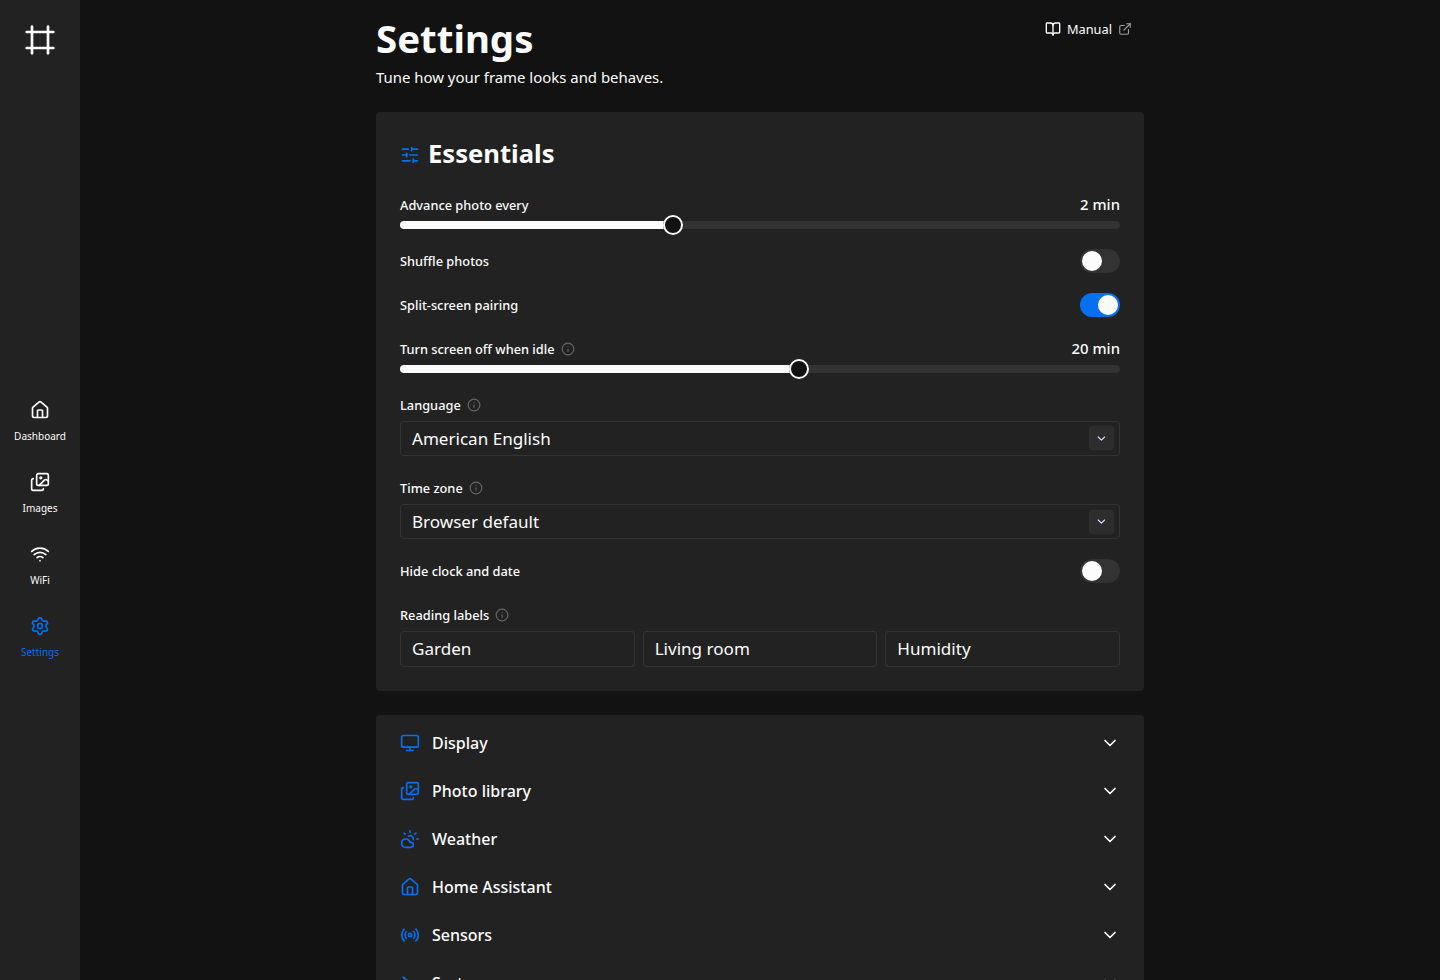
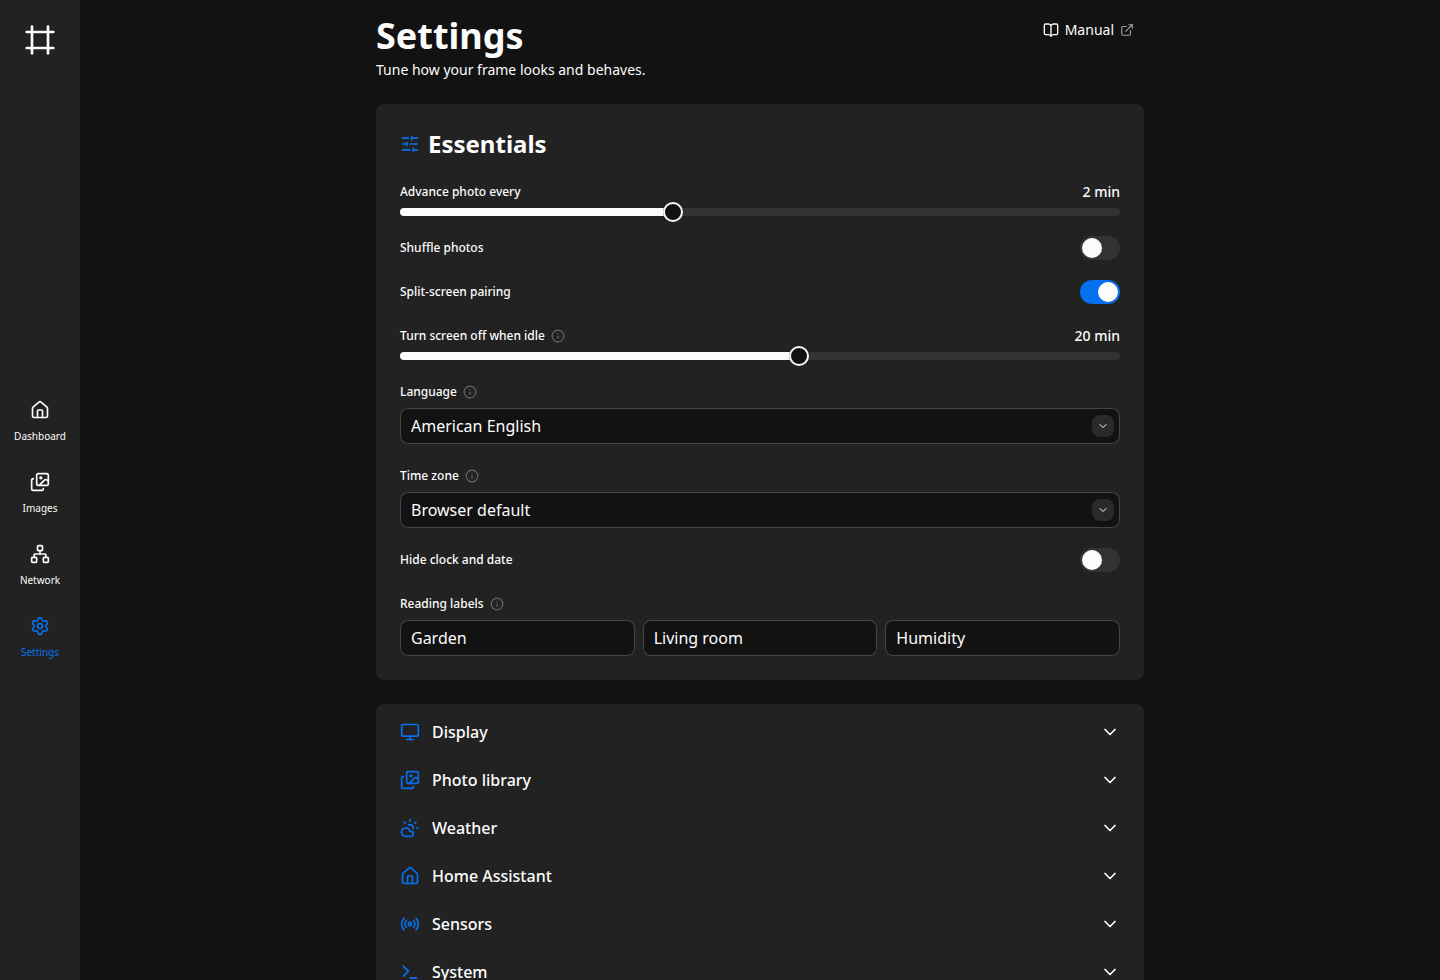
fix(network): rename wifi to network

diff --git a/web/e2e/dashboard.spec.ts b/web/e2e/dashboard.spec.ts
@@ -12,7 +12,7 @@ test.describe('dashboard', () => {
 	});
 
 	test('wifi tile shows the mock connection', async ({ dashboard }) => {
-		await expect(dashboard.tileWifi).toContainText('Home-WiFi');
+		await expect(dashboard.tileNetwork).toContainText('Home-WiFi');
 	});
 
 	test('sensor readings render from SSE', async ({ dashboard }) => {
@@ -45,8 +45,8 @@ test.describe('dashboard', () => {
 		await dashboard.tileLibrary.click();
 		await expect(page).toHaveURL(/\/admin\/images$/);
 		await dashboard.goto();
-		await dashboard.tileWifi.click();
-		await expect(page).toHaveURL(/\/admin\/wifi$/);
+		await dashboard.tileNetwork.click();
+		await expect(page).toHaveURL(/\/admin\/network$/);
 	});
 
 	test('now playing card shows the current image', async ({ dashboard }) => {

diff --git a/web/e2e/pages/dashboard.page.ts b/web/e2e/pages/dashboard.page.ts
@@ -2,7 +2,7 @@ import type { Locator, Page } from '@playwright/test';
 
 export class DashboardPage {
 	readonly heading: Locator;
-	readonly tileWifi: Locator;
+	readonly tileNetwork: Locator;
 	readonly tileWeather: Locator;
 	readonly tileLibrary: Locator;
 	readonly sensorReadings: Locator;
@@ -39,7 +39,7 @@ export class DashboardPage {
 
 	constructor(private readonly page: Page) {
 		this.heading = page.getByTestId('dashboard-heading');
-		this.tileWifi = page.getByTestId('tile-wifi');
+		this.tileNetwork = page.getByTestId('tile-network');
 		this.tileWeather = page.getByTestId('tile-weather');
 		this.tileLibrary = page.getByTestId('tile-library');
 		this.sensorReadings = page.getByTestId('sensor-reading');

diff --git a/web/src/routes/admin/layout.test.ts b/web/src/routes/admin/layout.test.ts
@@ -43,9 +43,9 @@ describe('admin layout load', () => {
 	it('redirects to login with an encoded next when required but unauthenticated', async () => {
 		mockLoadAuthStatus.mockResolvedValue({ required: true, authenticated: false });
 
-		await expect(load(event('/admin/wifi', '?tab=ap'))).rejects.toMatchObject({
+		await expect(load(event('/admin/network', '?tab=ap'))).rejects.toMatchObject({
 			status: 307,
-			location: `/login?next=${encodeURIComponent('/admin/wifi?tab=ap')}`
+			location: `/login?next=${encodeURIComponent('/admin/network?tab=ap')}`
 		});
 	});
 });

diff --git a/web/src/routes/admin/+layout.svelte b/web/src/routes/admin/+layout.svelte
@@ -6,7 +6,7 @@
 		ImagesIcon,
 		SettingsIcon,
 		FrameIcon,
-		WifiIcon,
+		NetworkIcon,
 		LogOutIcon
 	} from '@lucide/svelte';
 	import { Navigation, Toast } from '@skeletonlabs/skeleton-svelte';
@@ -41,7 +41,7 @@
 	const links = [
 		{ label: 'Dashboard', href: '/admin', icon: HouseIcon },
 		{ label: 'Images', href: '/admin/images', icon: ImagesIcon },
-		{ label: 'WiFi', href: '/admin/wifi', icon: WifiIcon },
+		{ label: 'Network', href: '/admin/network', icon: NetworkIcon },
 		{ label: 'Settings', href: '/admin/settings', icon: SettingsIcon }
 	];
 </script>

diff --git a/web/src/lib/auth.test.ts b/web/src/lib/auth.test.ts
@@ -136,8 +136,12 @@ describe('auth', () => {
 
 		it('redirects a gated 401 to /login with the encoded current path and query', () => {
 			expect(
-				loginRedirectTarget({ status: 401, url: 'http://f/api/config' }, '/admin/wifi', '?tab=ap')
-			).toBe(`/login?next=${encodeURIComponent('/admin/wifi?tab=ap')}`);
+				loginRedirectTarget(
+					{ status: 401, url: 'http://f/api/config' },
+					'/admin/network',
+					'?tab=ap'
+				)
+			).toBe(`/login?next=${encodeURIComponent('/admin/network?tab=ap')}`);
 		});
 	});
 });

diff --git a/web/e2e/mobile-nav.spec.ts b/web/e2e/mobile-nav.spec.ts
@@ -9,8 +9,8 @@ test('mobile shows the bottom nav and hides the rail', async ({ page, nav }) => 
 
 test('the bottom nav navigates between pages', async ({ page, nav }) => {
 	await page.goto('/admin');
-	await nav.link('WiFi').click();
-	await expect(page).toHaveURL(/\/admin\/wifi$/);
+	await nav.link('Network').click();
+	await expect(page).toHaveURL(/\/admin\/network$/);
 	await nav.link('Settings').click();
 	await expect(page).toHaveURL(/\/admin\/settings$/);
 });

diff --git a/web/src/routes/admin/+layout.ts b/web/src/routes/admin/+layout.ts
@@ -2,7 +2,7 @@ import { redirect } from '@sveltejs/kit';
 import { loadAuthStatus } from '$lib/auth';
 import type { LayoutLoad } from './$types';
 
-// Gate every /admin/* route (incl. /admin/wifi, only the captive-portal probes
+// Gate every /admin/* route (incl. /admin/network, only the captive-portal probes
 // stay public); also exposes auth status to the UI.
 export const load: LayoutLoad = async ({ fetch, url, depends }) => {
 	depends('app:auth');

diff --git a/web/e2e/wifi.spec.ts b/web/e2e/wifi.spec.ts
@@ -137,6 +137,6 @@ test.describe('ethernet connection', () => {
 
 	test('dashboard network tile shows Ethernet, not Disconnected', async ({ dashboard }) => {
 		await dashboard.goto();
-		await expect(dashboard.tileWifi).toContainText('Ethernet');
+		await expect(dashboard.tileNetwork).toContainText('Ethernet');
 	});
 });

diff --git a/web/src/routes/admin/+page.svelte b/web/src/routes/admin/+page.svelte
@@ -140,8 +140,8 @@
 					sub={wifi.sub}
 					Icon={wifiIcon}
 					tone={wifi.tone}
-					href={resolve('/admin/wifi')}
-					data-testid="tile-wifi"
+					href={resolve('/admin/network')}
+					data-testid="tile-network"
 				/>
 				<StatTile
 					label="Weather"

diff --git a/web/src/routes/admin/network/+page.svelte b/web/src/routes/admin/network/+page.svelte
@@ -184,7 +184,7 @@
 </script>
 
 <div class="space-y-6">
-	<h1 class="h2">WiFi</h1>
+	<h1 class="h2">Network</h1>
 
 	{#if status === null}
 		<div class="card bg-surface-100-900 p-6">

diff --git a/web/e2e/pages/wifi.page.ts b/web/e2e/pages/wifi.page.ts
@@ -54,6 +54,6 @@ export class WifiPage {
 	}
 
 	async goto(): Promise<void> {
-		await this.page.goto('/admin/wifi');
+		await this.page.goto('/admin/network');
 	}
 }
